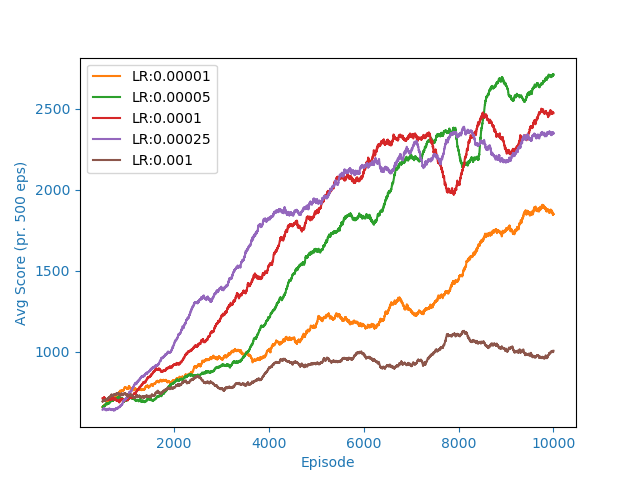
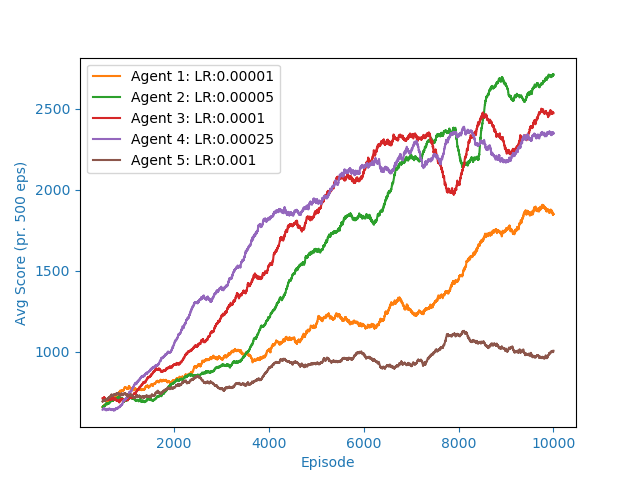
More plots

Changed region(s): [[0.1875, 0.125, 0.4375, 0.3438]]

diff --git a/mario_dqn/plots/compare_multiple.py b/mario_dqn/plots/compare_multiple.py
@@ -23,7 +23,7 @@ path5 = '/work/henriksv/code/mario-data-collection/mario_dqn/mario_DDQN_m100k_lr
 paths = [path1, path2, path3, path4, path5]
 #paths = [path1, path2, path3]
 
-legends = ['LR:0.00001', 'LR:0.00005', 'LR:0.0001', 'LR:0.00025', 'LR:0.001']
+legends = ['Agent 1: LR:0.00001', 'Agent 2: LR:0.00005', 'Agent 3: LR:0.0001', 'Agent 4: LR:0.00025', 'Agent 5: LR:0.001']
 #legends = ['LR:0.00001', 'LR:0.00005', 'LR:0.0001']
 
 
@@ -34,10 +34,10 @@ legends = ['LR:0.00001', 'LR:0.00005', 'LR:0.0001', 'LR:0.00025', 'LR:0.001']
 
 #paths = [path1, path2]#, path5, path4, path5]
 
-limit = 10000
+limit = 40000
 avg_n=500
-metric = 'scores'
-label = 'Avg Score (pr. 500 eps)'
+metric = 'success'
+label = 'Finish Rate (pr. 500 eps)'
 out_path = 'CompareMult_'+metric+'_10k_lr.png'
 
 data = []
@@ -80,7 +80,11 @@ ax.set_ylabel(label, color="C0")
 ax.tick_params(axis='x', colors="C0")
 ax.tick_params(axis='y', colors="C0")
 
-ax. legend(loc='upper left')#, frameon=False)
+if len(paths) == 3:
+    ax.legend(loc='lower right')#, frameon=False)
+else:
+    ax.legend(loc='upper left')#, frameon=False)
+
 
 plt.savefig(out_path)
 plt.close()
